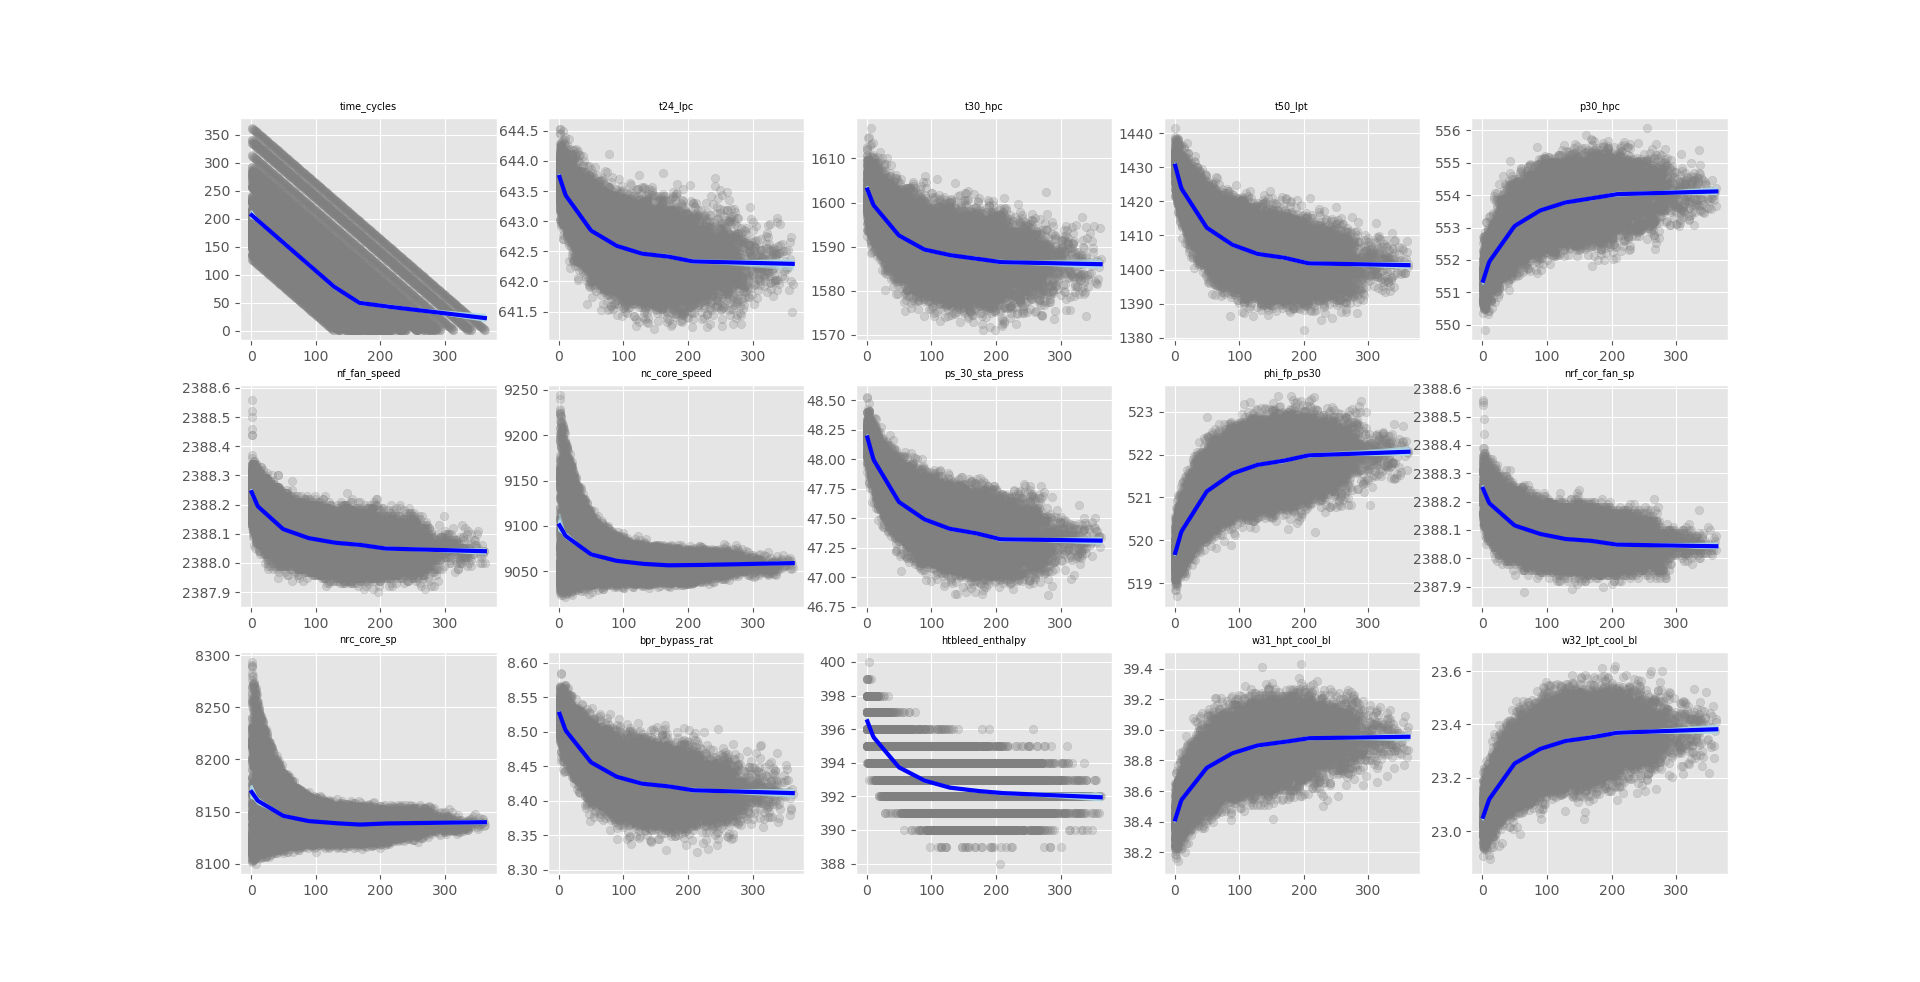
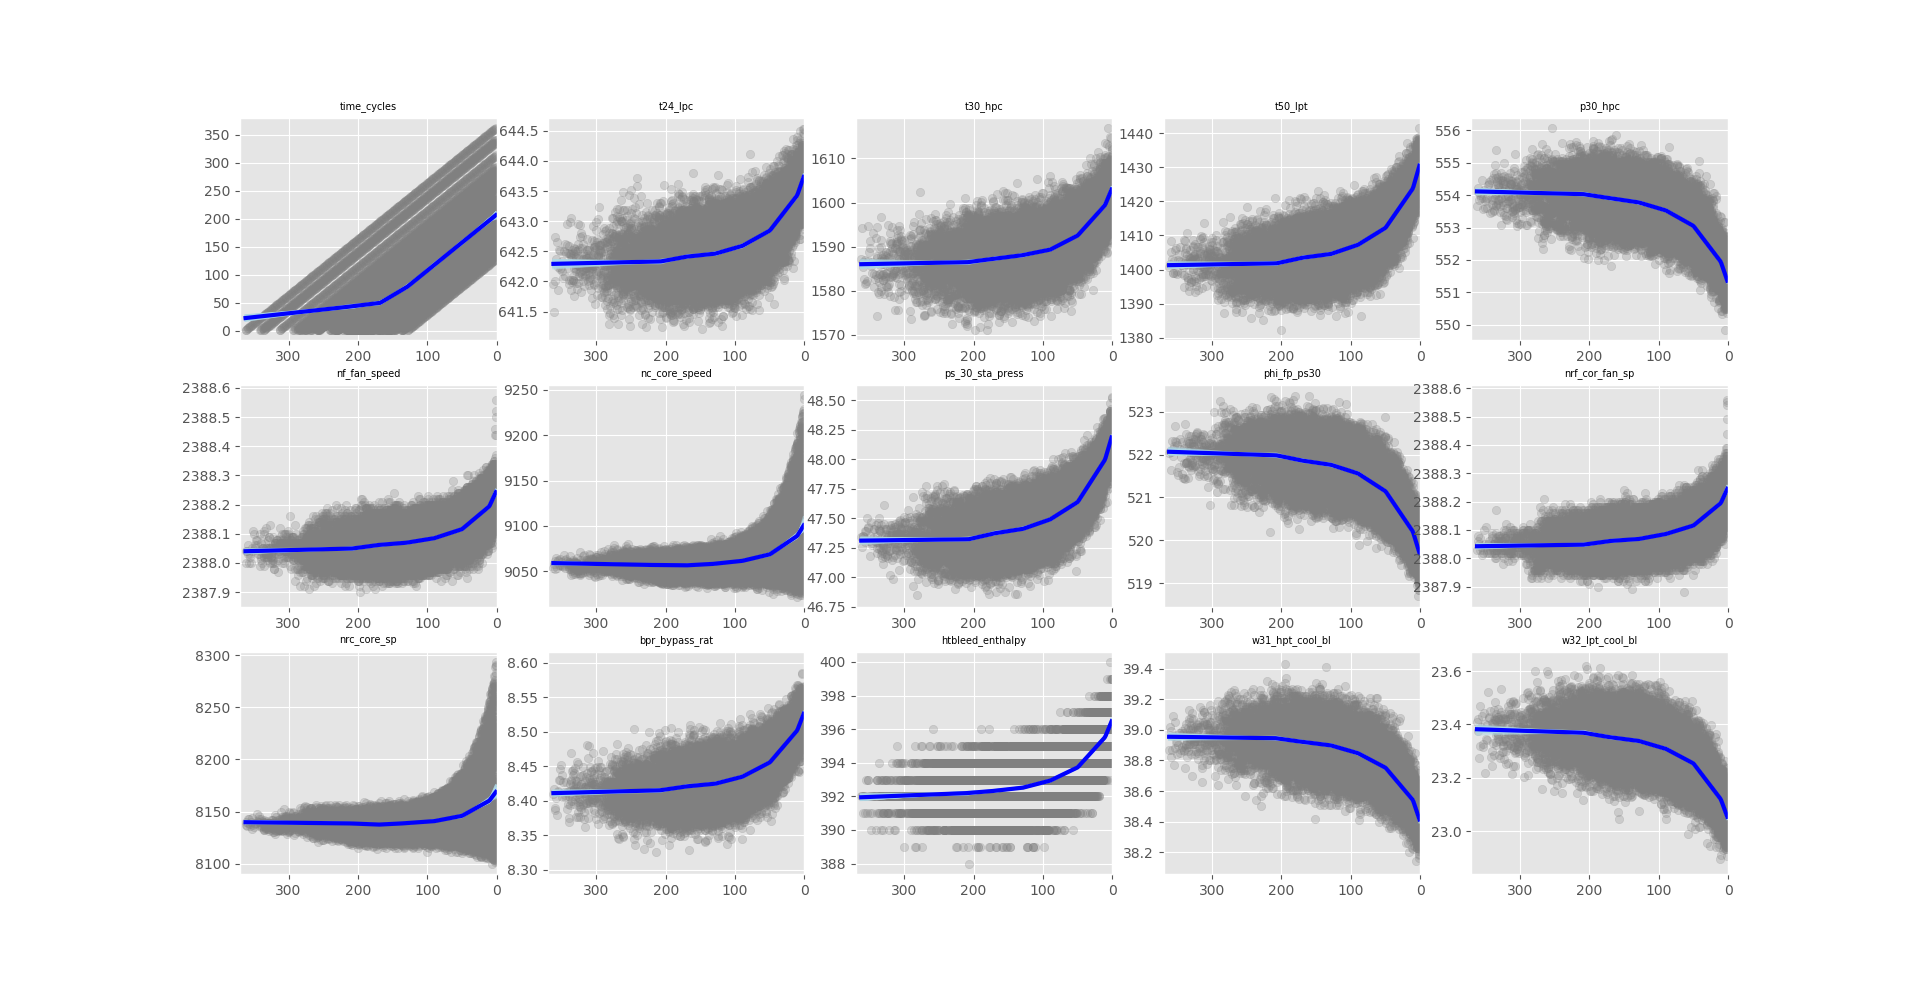
updated images and included all featuers spline plot

diff --git a/models/full_script_linear_spline.py b/models/full_script_linear_spline.py
@@ -99,7 +99,7 @@ small_features_list = [
 
 
 training_set = True
-make_plots = False
+make_plots = True
 data_frames_to_transform = [df1, df2, df3 , df4]
 transform_dataframes_add_ys(data_frames_to_transform)
 cols_to_use = small_features_list
@@ -294,8 +294,8 @@ if make_plots == True:
     ax = plt.subplot()
     ax.hist(train_eng_max_cycles, bins = int(180/15),
                 color = 'blue', edgecolor = 'black')
-    ax.set_title('Failure Distribution', size = 15)
-    ax.set_xlabel('Cycles', size = 8)
+    ax.set_title('Distribution of Cycles Until Failure', size = 15)
+    ax.set_xlabel('Cycle Number', size = 8)
     ax.set_ylabel('Count of Engines', size= 8)
     plt.xlim([0,380])
     plt.ylim([0, 20])

diff --git a/README.md b/README.md
@@ -46,12 +46,22 @@ Most importantly, it would allow for the compact form of a knot and spline model
 
 ## Models:
 Linear regression with knots and splines.
-Each feature that was included in the training data set was bootstrapped and plotted against cycles until failure. For example, the temperature recorded at location 50 for the Low Pressure Turbine (t50_lpt) looked like this:
+Each feature that was included in the training data set was bootstrapped and plotted against cycles until failure. For example, the temperature recorded at location 50 at the low pressure turbine (t50_lpt) exit looked like this:
 
 ![alt text](https://github.com/fischtank44/flight_engineer/raw/master/images/t50_lpt_bs_spline_analysis.png)
 
-Each feature values were then evaluated to determine where the trend showed a marked increase or decrease in slope. These knot locations where then fit to the original data-frame which was transformed using each of the knots as a new feature. The predictive variables  
+Each feature values were then evaluated to determine where the trend showed a marked increase or decrease in slope. At each location a knot value was chosen. These knot locations where then fit to the original data-frame which was transformed using each of the knots as a new feature. This procedure was duplicated for each predictive variable shown in this series of graphs:
+
+![alt text](https://github.com/fischtank44/flight_engineer/raw/master/images/all_features_cycles_to_fail.png)
 
 
-Linear regression with a log transformed target variable.
-The plots of the first model indicated that the features contained data that was increasing/decreasing at a rate that was accelerating as the engines approached the end of their life cycle.  This is an indication that a log transformation would be useful. The first transformation was a log transformation of the y variable. Log variables started as high as 5.8 (350 cycles of life) and continued down to 0 (one life cycle remaining). The results where significantly improved.   
+###Linear regression.
+The plots of the first model indicated that the features contained data that was increasing/decreasing at a rate that was accelerating as the engines approached the end of their life cycle. As seen in this plot:
+
+![alt text](https://github.com/fischtank44/flight_engineer/raw/master/images/pred_vs_actual_reg_regression.png)
+
+
+###Linear regression with a log transformed target variable.
+This is an indication that a log transformation would be useful. The first transformation was a log transformation of the y variable. Log variables started as high as 5.8 (350 cycles of life) and continued down to 0 (one life cycle remaining). The results where significantly improved as shown in this plot:   
+
+![alt text](https://github.com/fischtank44/flight_engineer/raw/master/images/training_cycles_to_fail.png)
